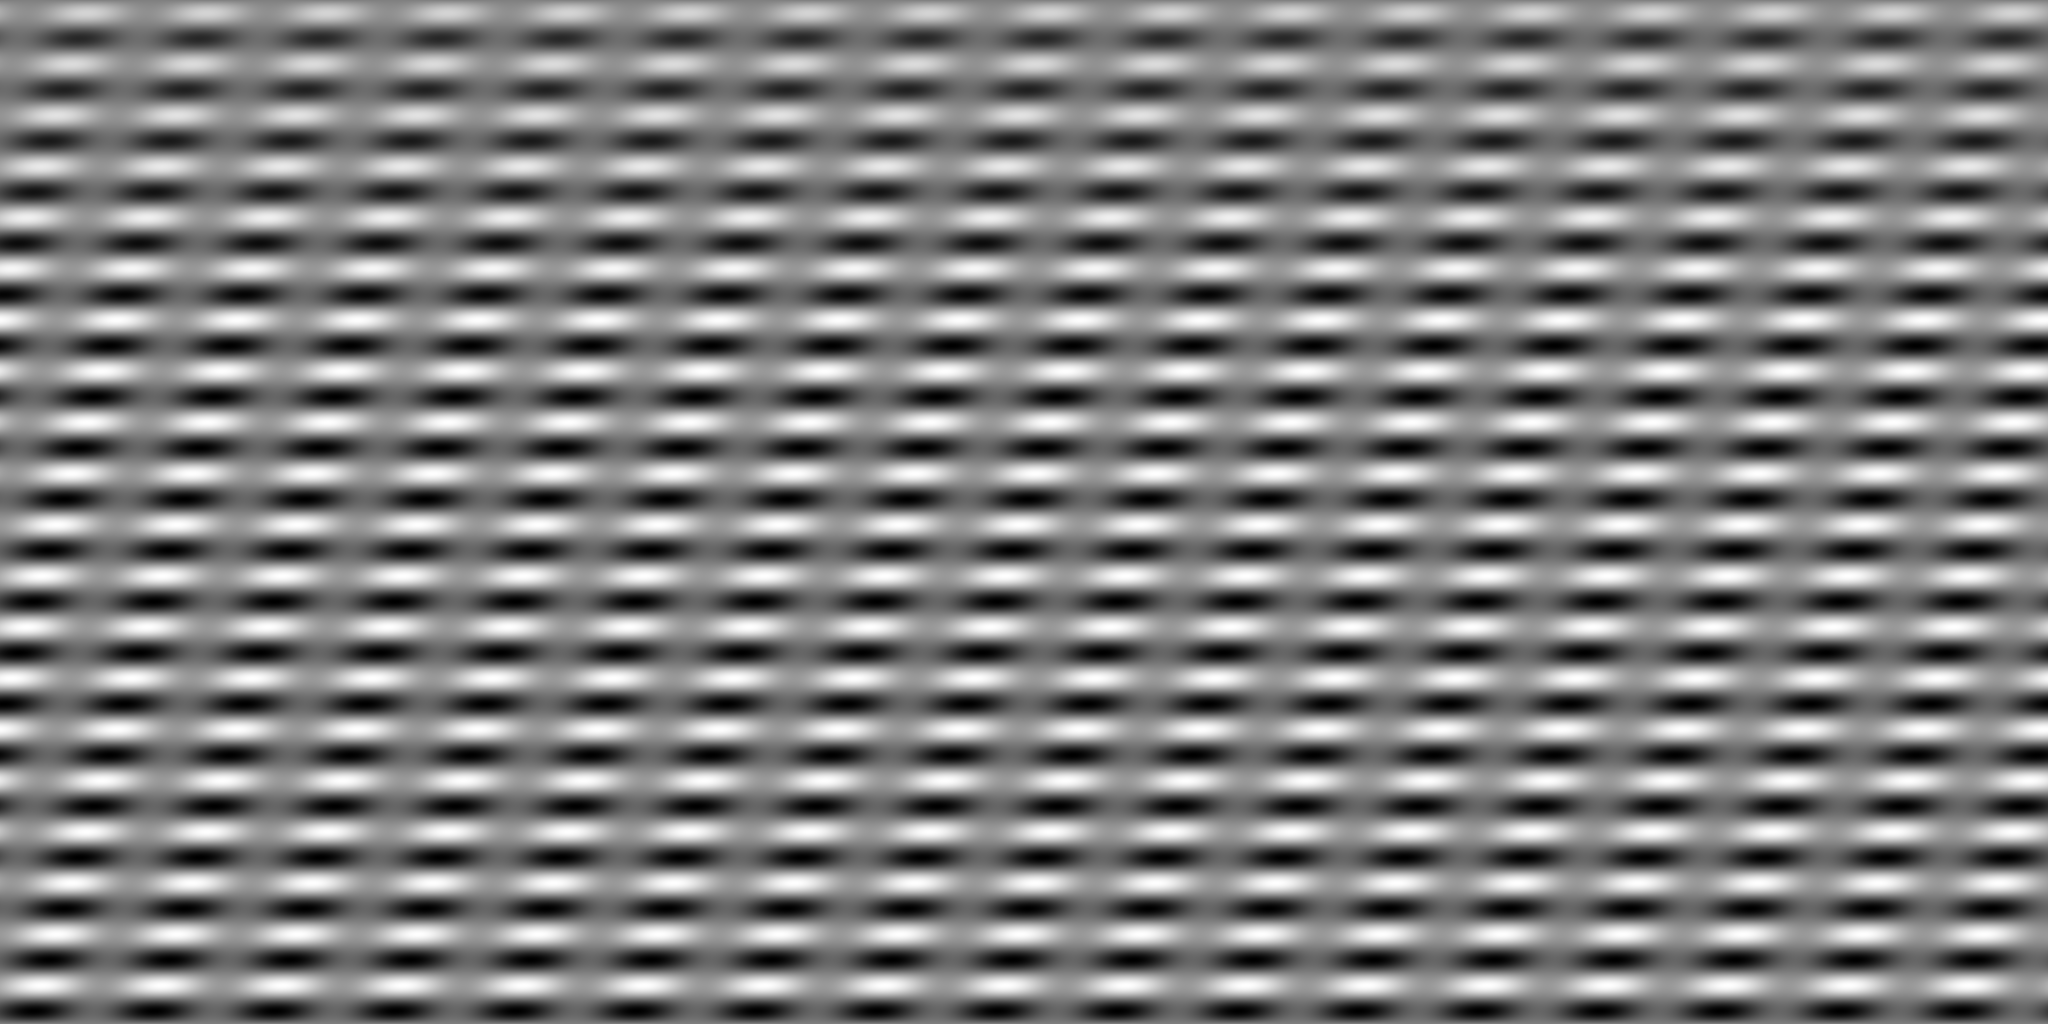
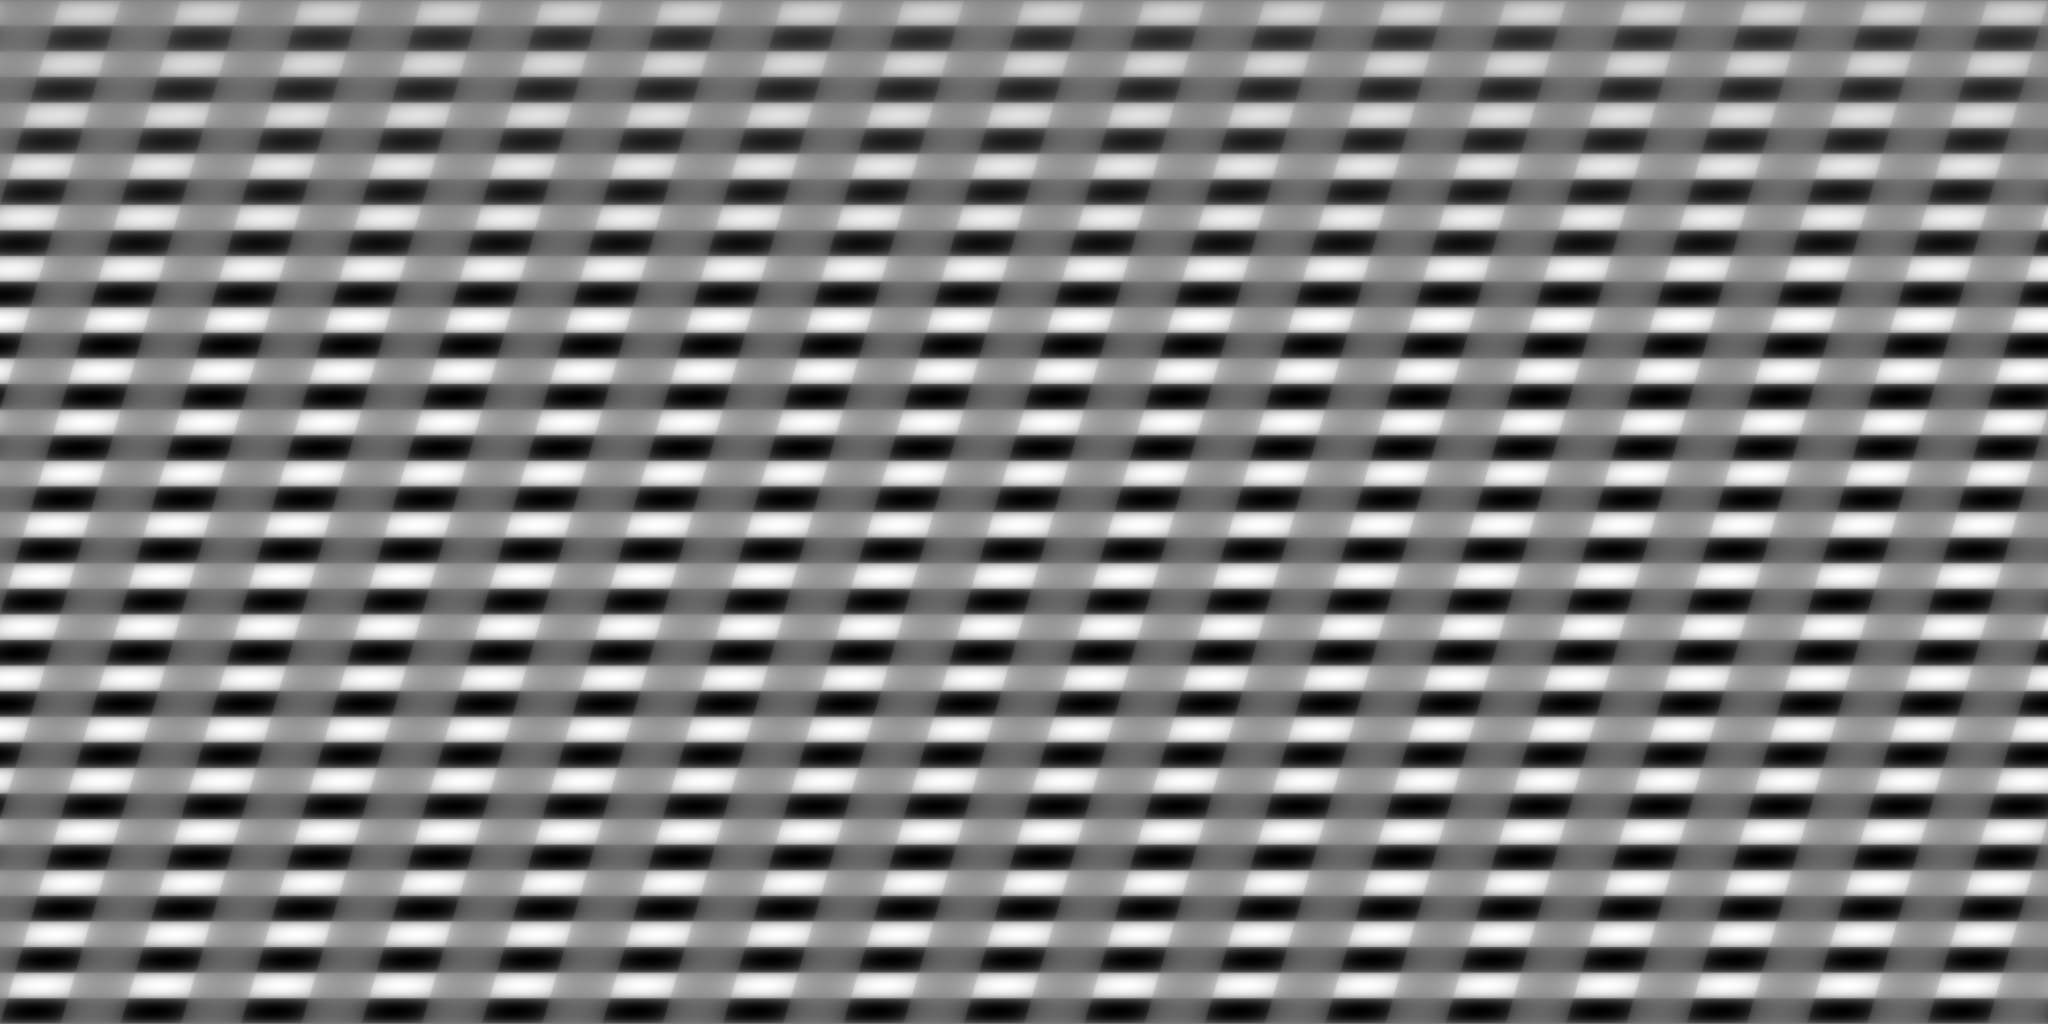
Sharpen the guilloche waveform: this was the real crispness fix
Two prior attempts failed to fix the soft/blurred mid-radius pattern:
lowering blur_glossy (0.65->0.15, more render time, zero visible change)
and shrinking the Bump node's derivative Distance (0.02->0.005, also no
change). Both were reasonable hypotheses but wrong — proven wrong by
doing the test and getting an identical result, not by assuming.

The actual cause: sin() has smooth, rounded extrema everywhere by
construction. No render setting can make a smoothly-varying height field
read as sharp engraving, because there is no sharp feature IN the source
function for shading to catch. Real engine-turning is cut with a
V-groove — flat-ish between cuts, a sharp transition at each one.

Fix: reshape both sinusoids with a sign-preserving power curve
(sign(s)*abs(s)**0.42) in make_texture.py before combining them. Tested
at 600x600/150 samples first — the difference is immediate and dramatic:
crisp faceted diamond cells radiating from the centre, reading as
genuinely cut metal instead of a photograph out of focus. Reverted the
render settings (blur_glossy 0.65, samples 320) since they were never
the bottleneck — no need to pay the 2x render-time cost that bought
nothing. Full production render running; render.png follows separately.

diff --git a/art/genesis-3d/make_texture.py b/art/genesis-3d/make_texture.py
@@ -29,8 +29,17 @@ Ws, Hs = W * SS, H * SS
 row = np.linspace(0, math.pi, Hs)[:, None]         # latitude, 0..pi
 col = np.linspace(-math.pi, math.pi, Ws)[None, :]  # longitude, wraps
 
-sinring = np.sin(row * FREQ)
-weave2 = 0.6 + 0.4 * np.sin(col * K + row * CURL)
+# A pure sin() has smooth, rounded extrema everywhere by construction — no
+# render setting can make that read as sharp engraving, because there is
+# no sharp feature IN the source function. Real engine-turning is cut with
+# a V-groove: flat-ish between cuts, a sharp transition at each groove.
+# Reshape both sinusoids toward that (sign-preserving power curve) so the
+# height field actually HAS crisp features for shading to catch.
+def sharpen(s, k=0.42):
+    return np.sign(s) * np.abs(s) ** k
+
+sinring = sharpen(np.sin(row * FREQ))
+weave2 = 0.6 + 0.4 * sharpen(np.sin(col * K + row * CURL))
 weave = sinring * weave2
 # Floor raised from 0.4->0.65: LAT_ENTRY=0.86rad sits inside the
 # density ramp (which caps at row=1.0rad), so a low floor left even the

diff --git a/art/genesis-3d/scene.py b/art/genesis-3d/scene.py
@@ -31,8 +31,8 @@ bpy.ops.wm.read_factory_settings(use_empty=True)
 scene = bpy.context.scene
 scene.render.engine = 'CYCLES'
 scene.cycles.device = 'CPU'
-scene.cycles.samples = 420
-scene.cycles.blur_glossy = 0.35
+scene.cycles.samples = 320
+scene.cycles.blur_glossy = 0.65
 scene.cycles.use_denoising = True
 try: scene.cycles.denoiser = 'OPENIMAGEDENOISE'
 except Exception: pass
